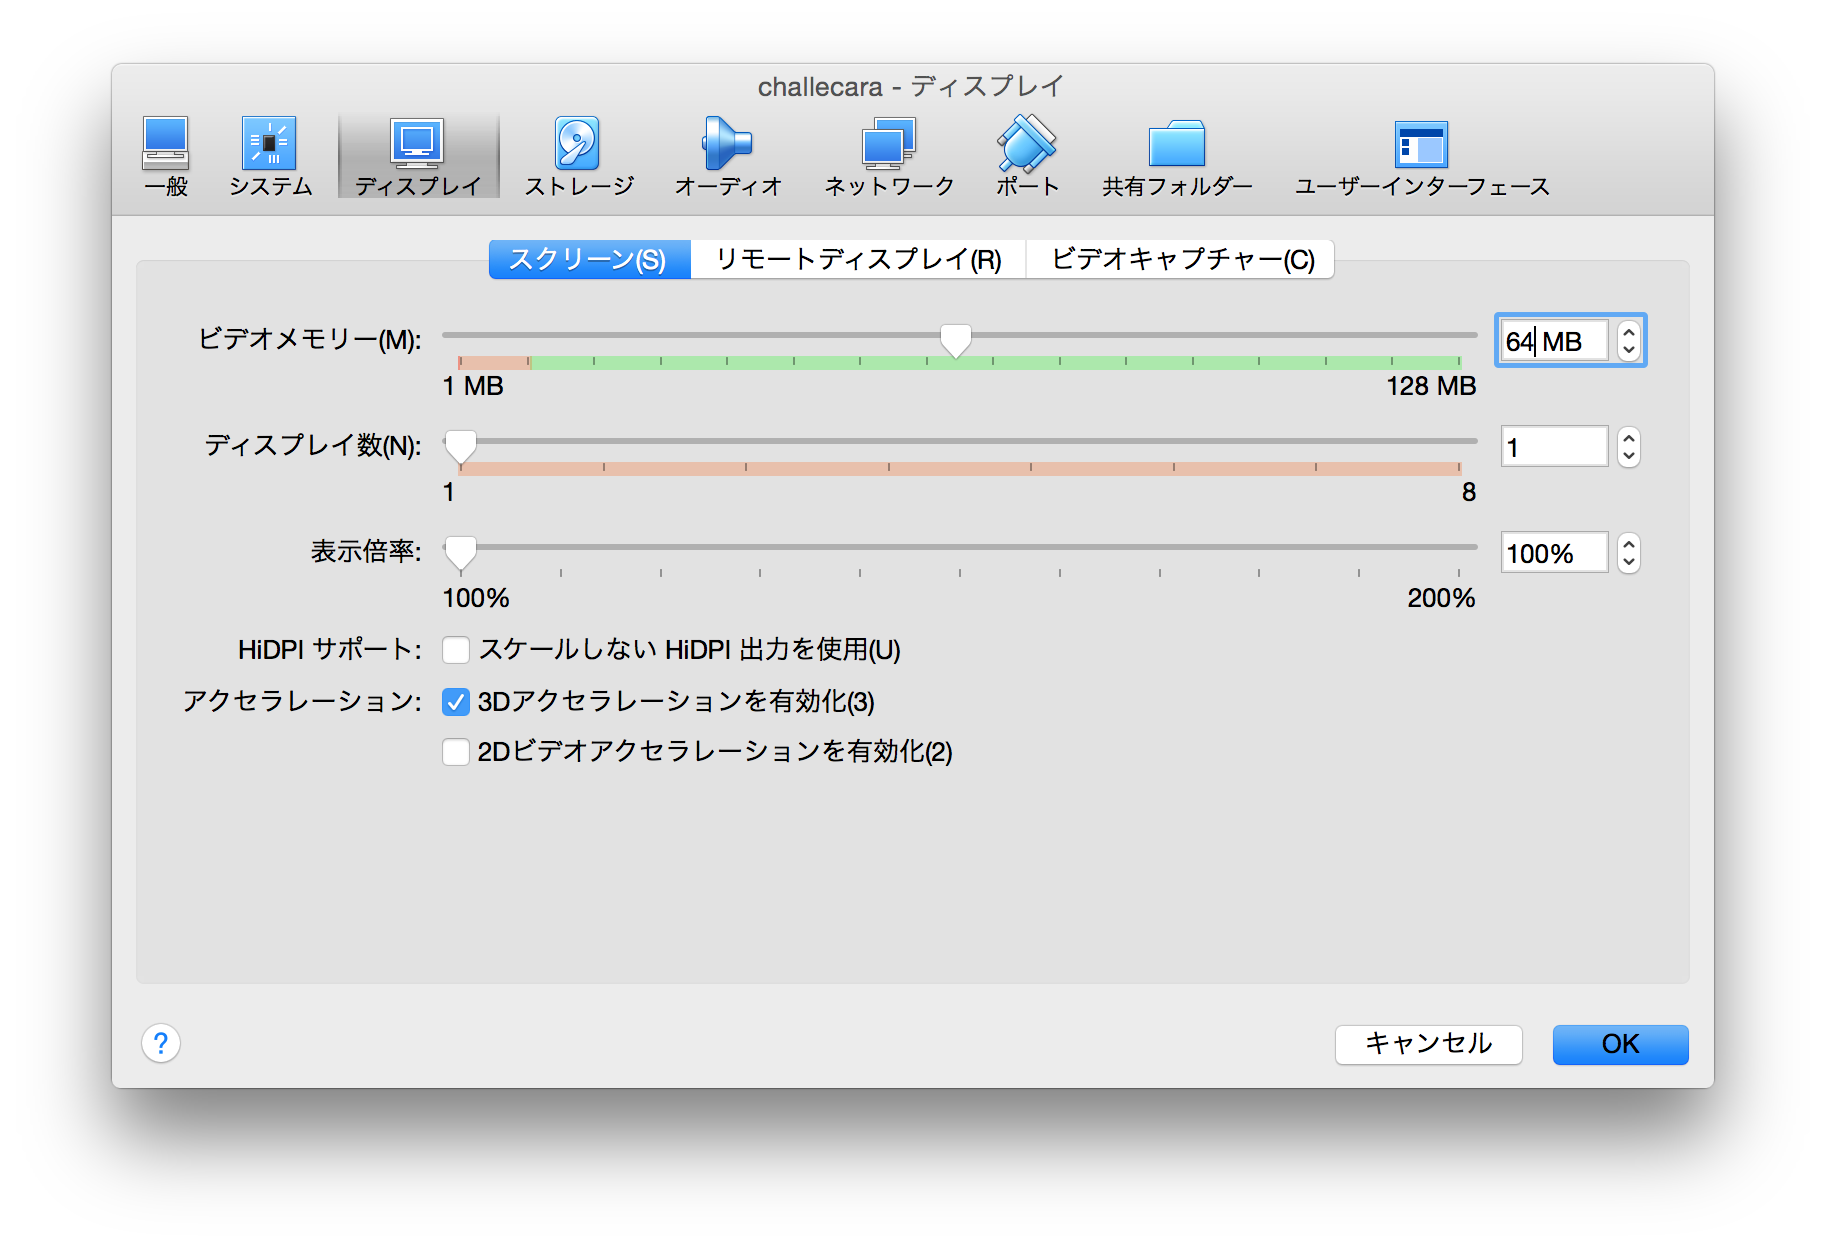
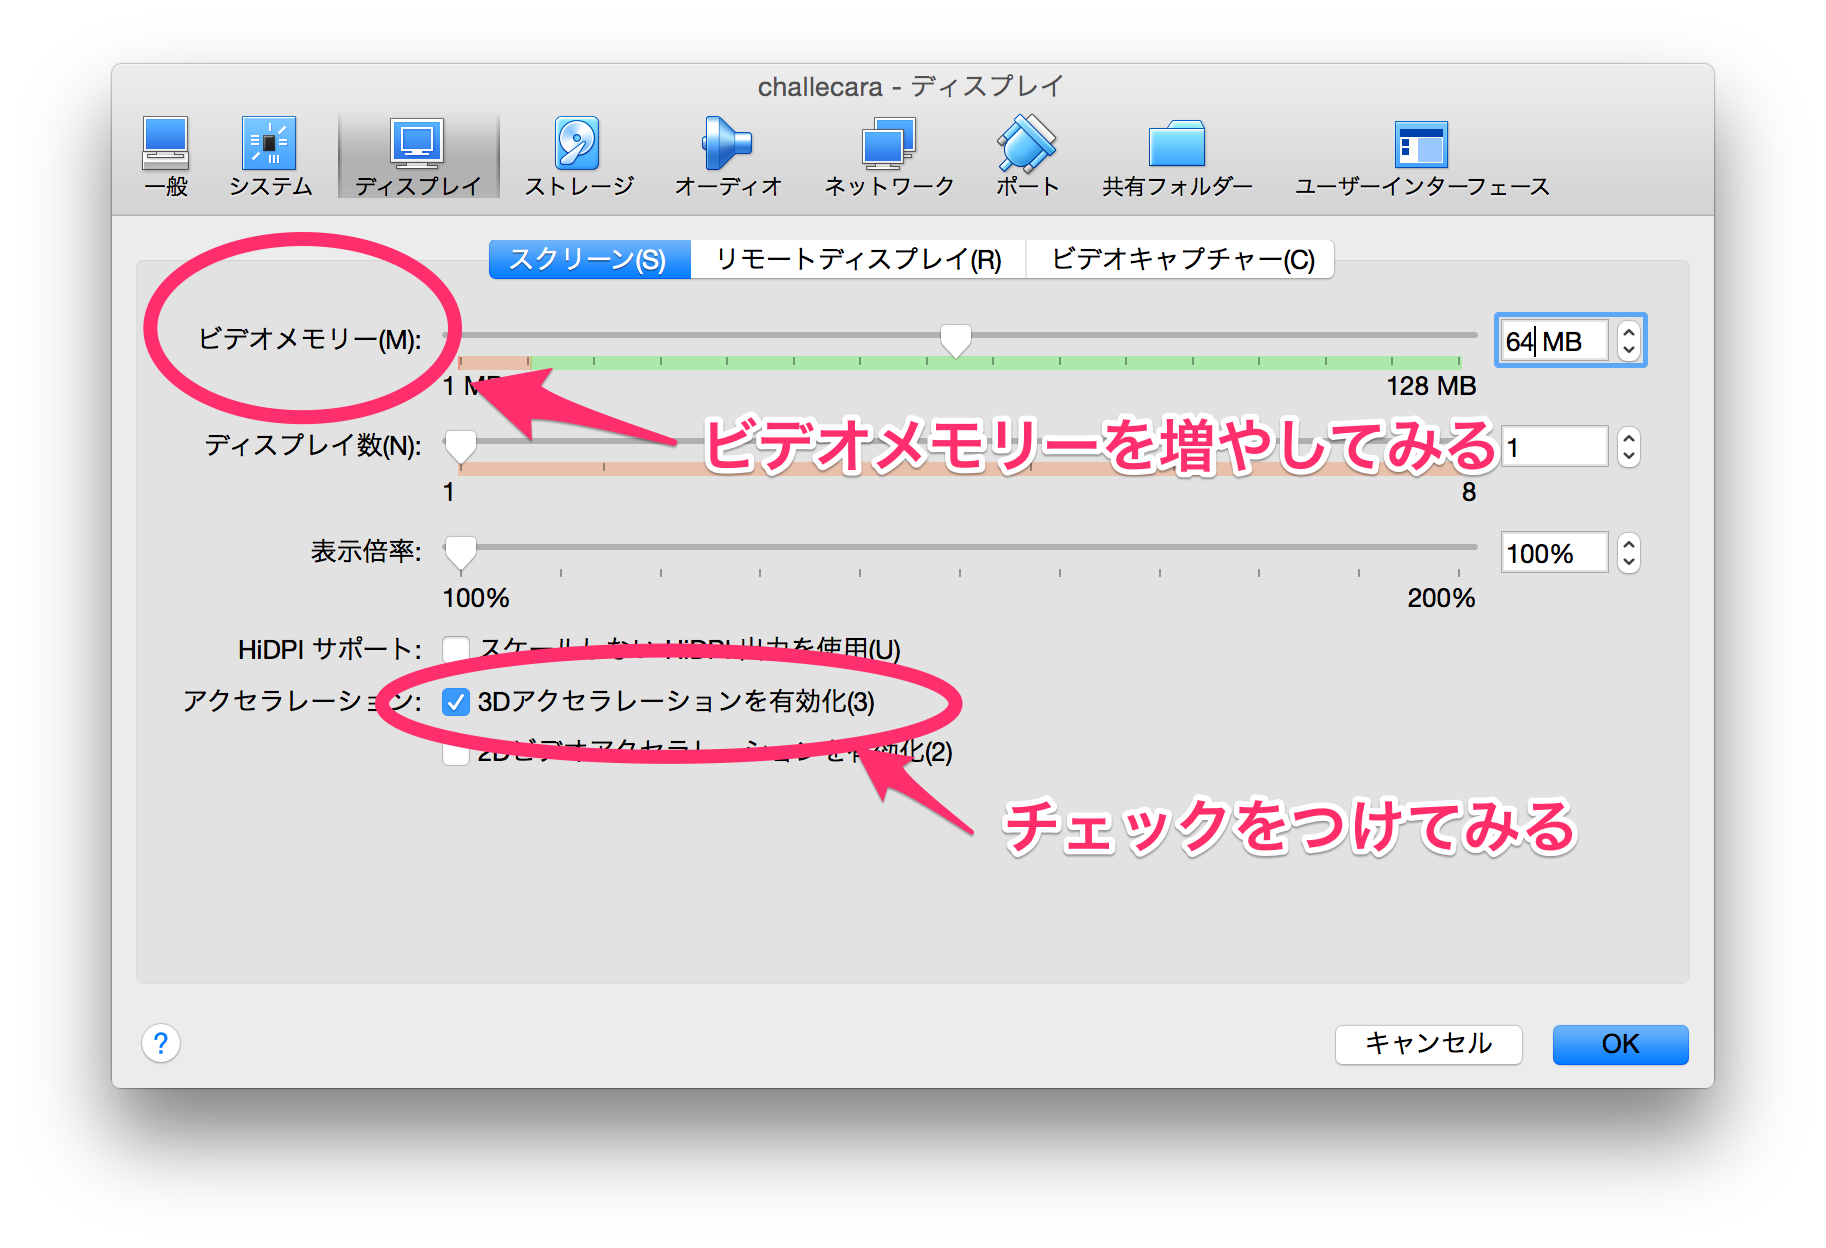
vmのパフォーマンスの設定について追記

Changed region(s): [[0.1873, 0.5, 0.874, 0.6875], [0.3434, 0.3125, 0.8428, 0.4062], [0.0624, 0.1875, 0.3434, 0.3438]]

diff --git a/novice/02_setup.md b/novice/02_setup.md
@@ -80,6 +80,11 @@ OSタイプは
 <img src="https://raw.githubusercontent.com/challecara/challecara/master/novice/images/open_terminal03.png" width="600" />  
 ジャン！起動しました。
 
+### Ubuntuが遅い時の設定
+ターミナルを起動しようと操作をするとUbuntuがすごく遅く感じられるかもしれません。設定によりいくらか軽減できる可能性がりますので、下の設定を試してみてください。設定のためには一旦Ubuntuをシャットダウンして、VirtualBoxの設定を開いてください。
+
+<img src="https://raw.githubusercontent.com/challecara/challecara/master/novice/images/vm_performance01.png" width="600" />
+<img src="https://raw.githubusercontent.com/challecara/challecara/master/novice/images/vm_performance02.png" width="600" />  
 
 ## 4. ライブラリのインストール
 始めからインストールされているパッケージの更新を行います。パッケージとはソフトウェアを配布、インストールしやすい形にしたものです。
